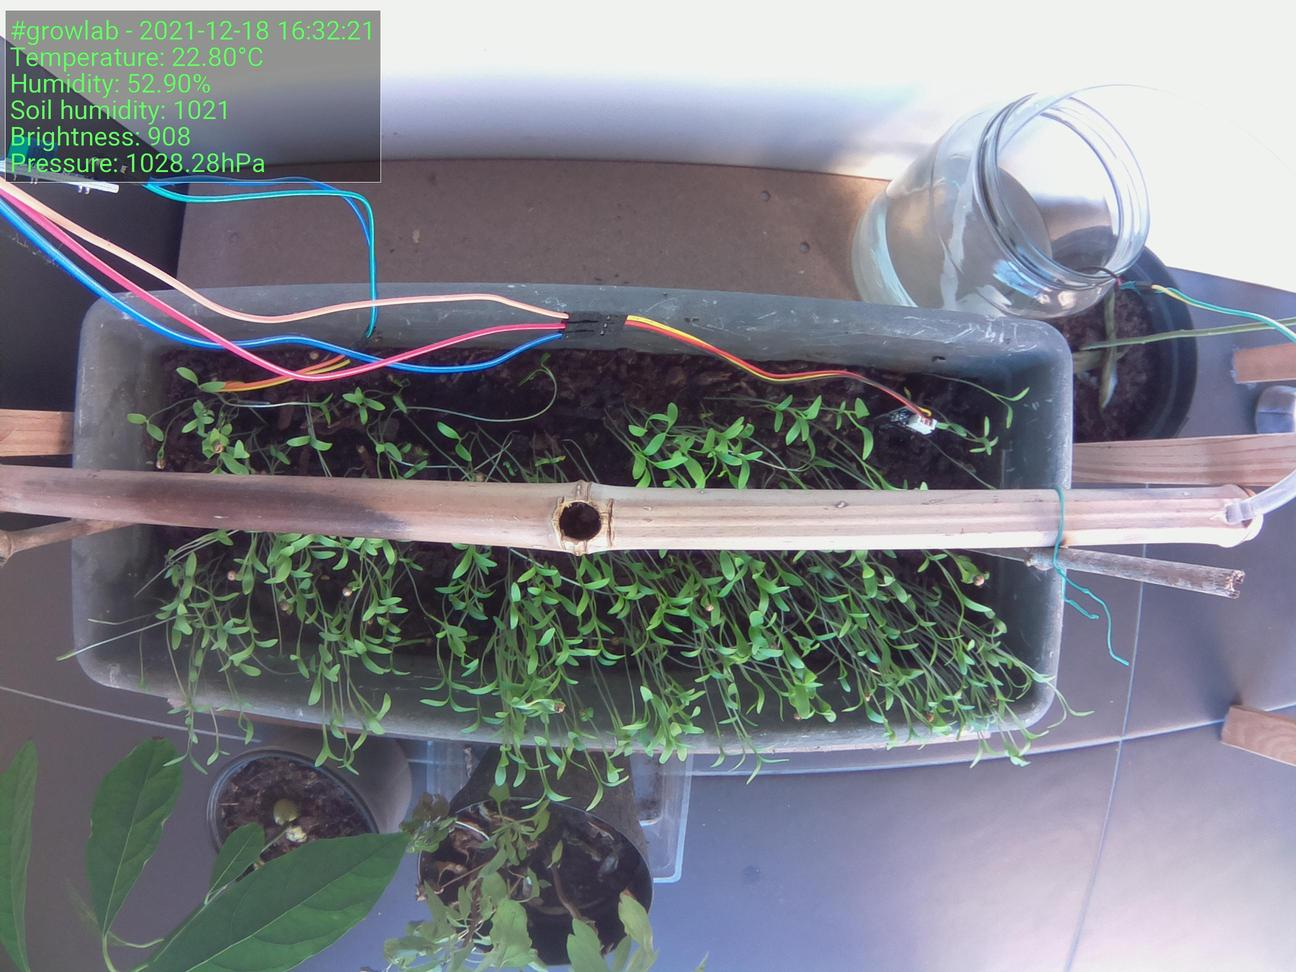
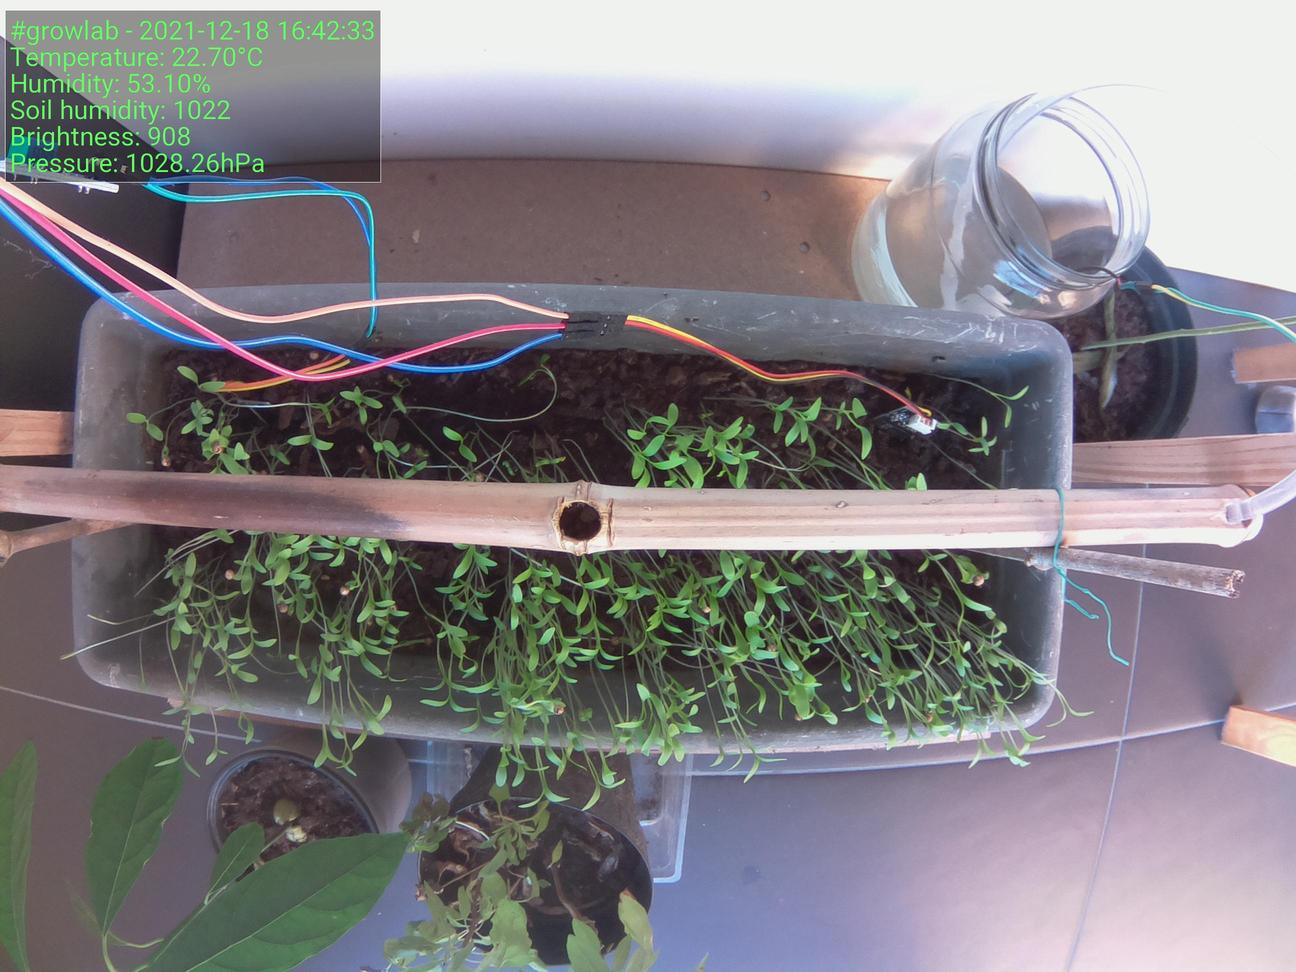
:bento: Update preview

diff --git a/index.html b/index.html
@@ -39,15 +39,15 @@
                     <tbody>
                         <tr>
                             <td>Time</td>
-                            <td>2021-12-18 16:32:21</td>
+                            <td>2021-12-18 16:42:33</td>
                         </tr>
                         <tr>
                             <td>Temperature</td>
-                            <td>22.80°C</td>
+                            <td>22.70°C</td>
                         </tr>
                         <tr>
                             <td>Humidity</td>
-                            <td>52.90%</td>
+                            <td>53.10%</td>
                         </tr>
                     </tbody>
                 </table>
@@ -55,7 +55,7 @@
 
                 <h5>Latest image</h5>
 		<div style="width: 85%;">
-	                <img class="figure-img img-fluid rounded" src="./preview.jpg?uid=1639841549.0334024">
+	                <img class="figure-img img-fluid rounded" src="./preview.jpg?uid=1639842160.739765">
 		</div>
             </div>
         </div>
